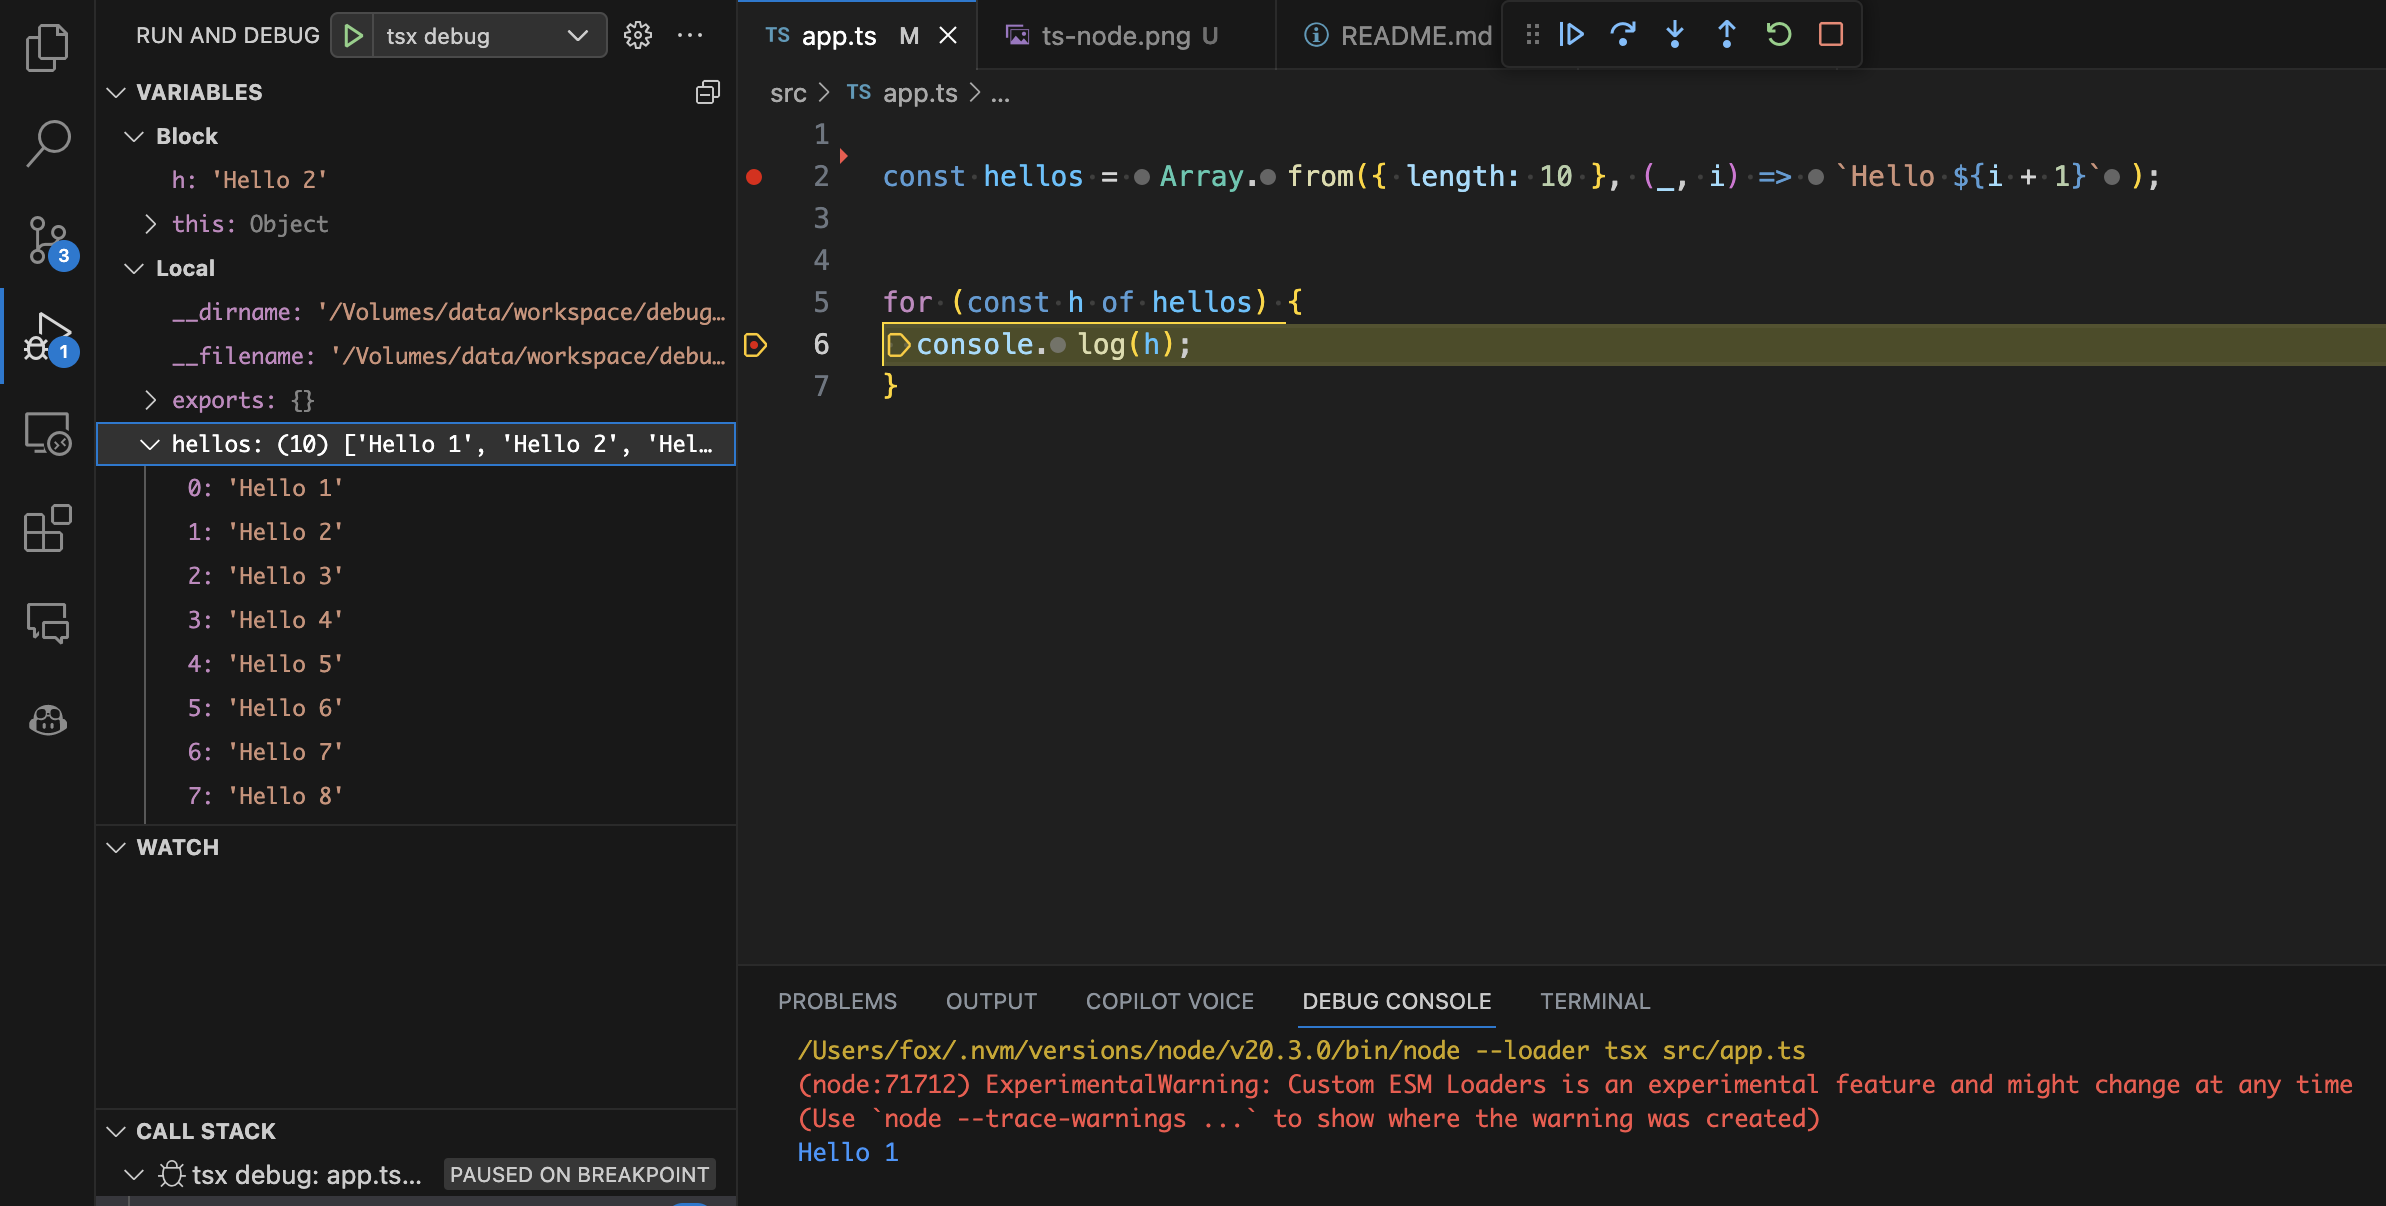
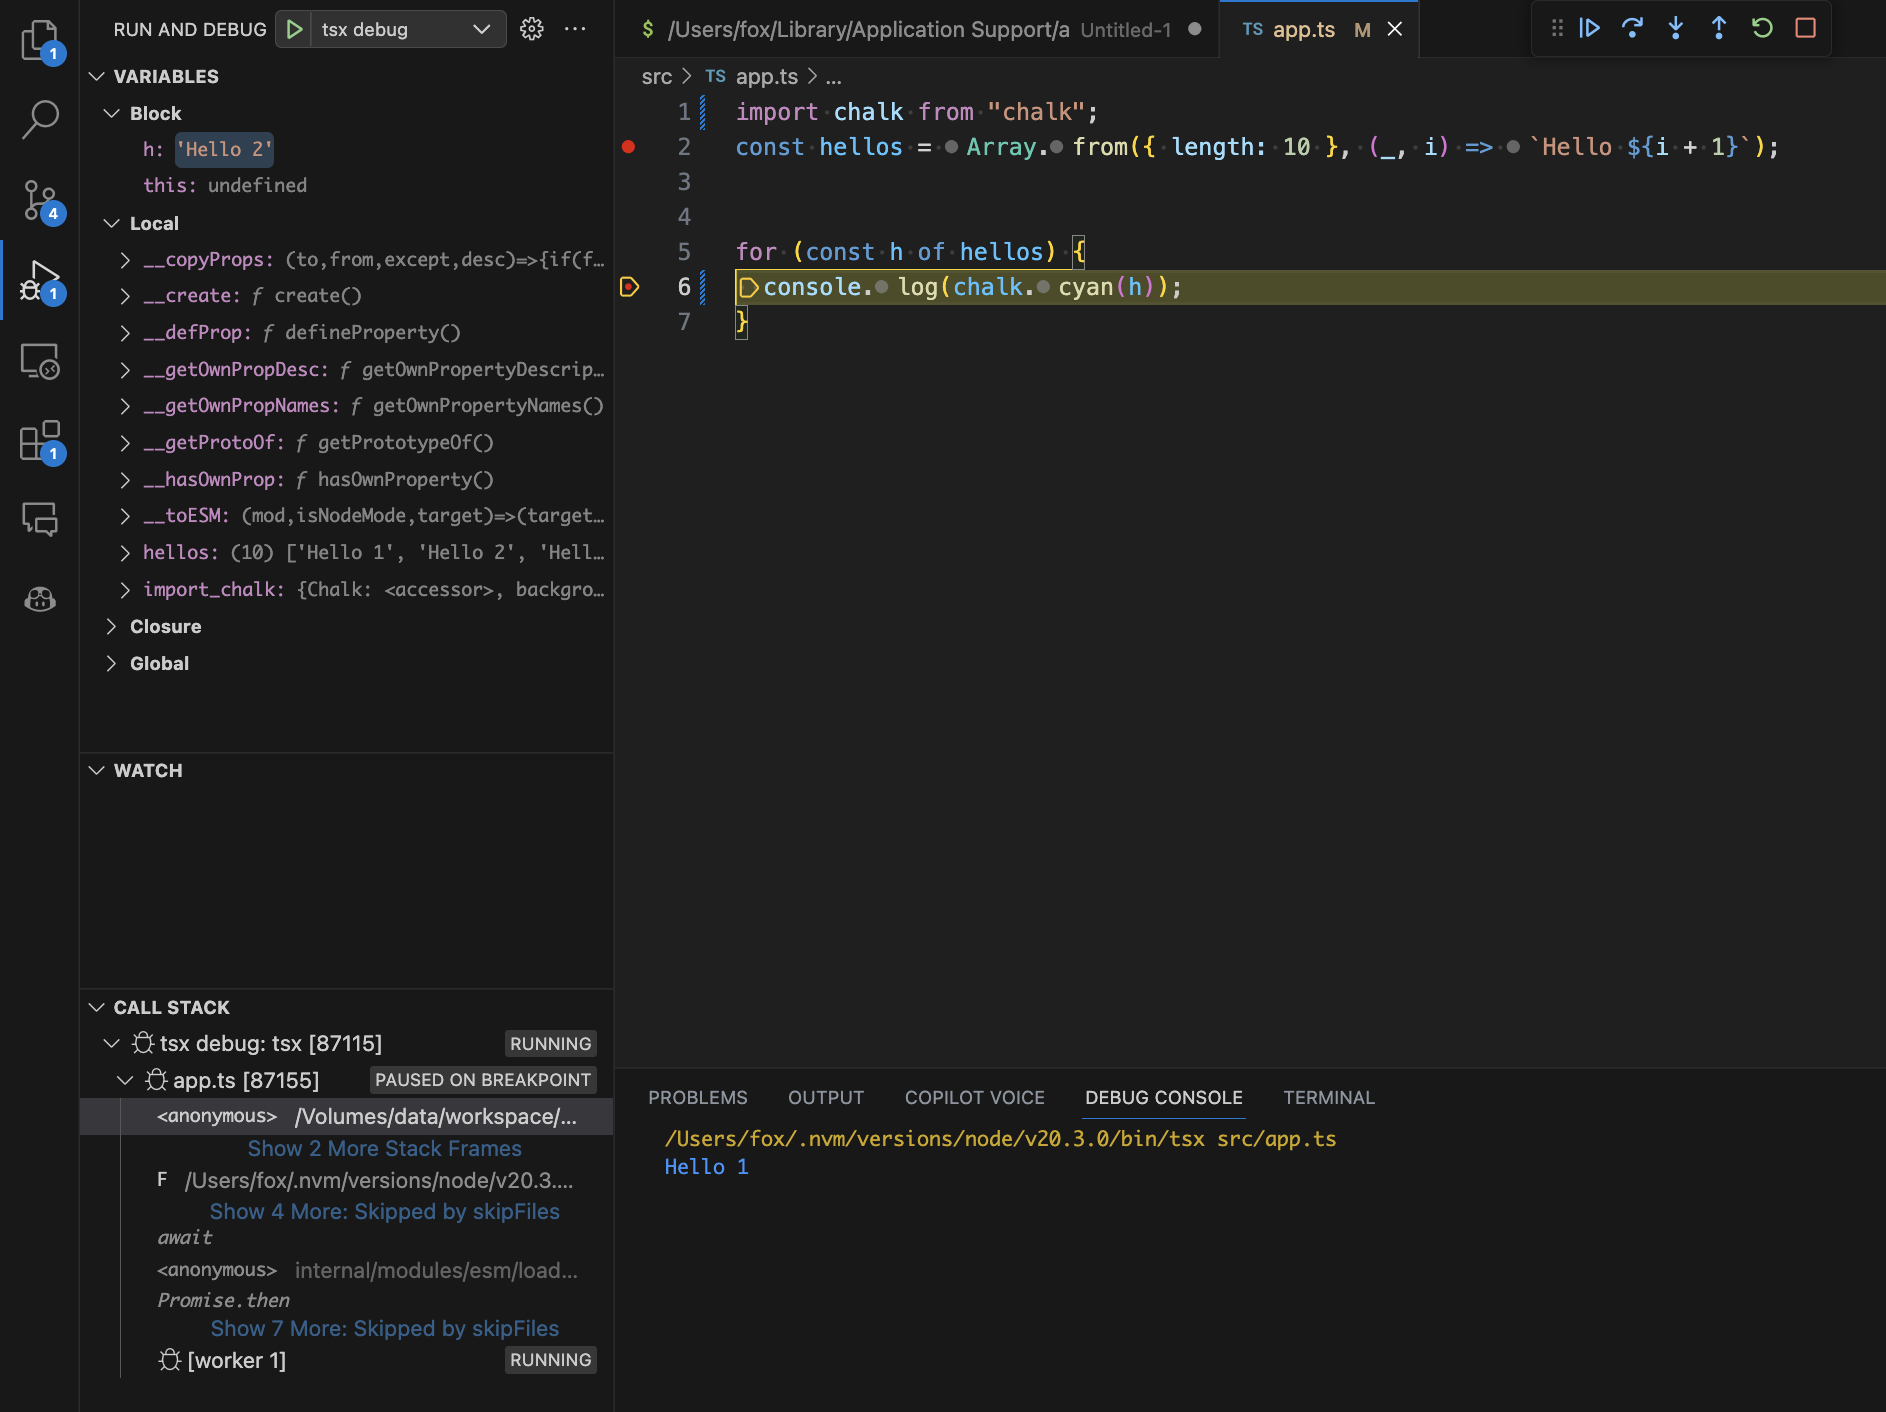
with module import debug

diff --git a/src/app.ts b/src/app.ts
@@ -1,7 +1,7 @@
-
+import chalk from "chalk";
 const hellos = Array.from({ length: 10 }, (_, i) => `Hello ${i + 1}`);
 
 
 for (const h of hellos) {
-  console.log(h);
+  console.log(chalk.cyan(h));
 }

diff --git a/README.md b/README.md
@@ -1,59 +1,60 @@
 # In 2023, New Century TypeScript Debugging Methods
 
+  ## `tsx` example
+  - `npm i -g tsx`
+  - add `.vscode/launch.json`
+  ```json
+  {
+    "version": "0.2.0",
+    "configurations": [
+      {
+        "name": "tsx debug",
+        "type": "node",
+        "request": "launch",
+        "args": [
+          "${relativeFile}"
+        ],
+        "runtimeExecutable": "tsx",
+        "cwd": "${workspaceRoot}",
+        "internalConsoleOptions": "openOnSessionStart"
+      }
+    ]
+  }
+  ```
+  ![tsx example](img/tsx.png)
 
-## `tsx` example
-- `npm i tsx`
-- add `.vscode/launch.json`
-```json
-{
-  "version": "0.2.0",
-  "configurations": [
-    {
-      "name": "tsx debug",
-      "type": "node",
-      "request": "launch",
-      "args": [
-        "${relativeFile}"
-      ],
-      "runtimeArgs": [
-        "--loader",
-        "tsx"
-      ],
-      "cwd": "${workspaceRoot}",
-      "internalConsoleOptions": "openOnSessionStart"
-    }
-  ]
-}
-```
-![tsx example](img/tsx.png)
 
-## `ts-node` example
+<details>
+  <summary markdown="span">`ts-node` example</summary>
 
-- `npm i ts-node`
-- add `.vscode/launch.json`
+  ## `ts-node` example
 
-```json
-{
-  "version": "0.2.0",
-  "configurations": [
-    {
-      "name": "ts-node debug",
-      "type": "node",
-      "request": "launch",
-      "args": [
-        "${relativeFile}"
-      ],
-      "runtimeArgs": [
-        "-r",
-        "ts-node/register"
-      ],
-      "cwd": "${workspaceRoot}",
-      "internalConsoleOptions": "openOnSessionStart"
-    }
-  ]
-}
-```
-![ts-node example](img/ts-node.png)
+  - `npm i ts-node`
+  - add `.vscode/launch.json`
 
+  ```json
+  {
+    "version": "0.2.0",
+    "configurations": [
+      {
+        "name": "ts-node debug",
+        "type": "node",
+        "request": "launch",
+        "args": [
+          "${relativeFile}"
+        ],
+        "runtimeArgs": [
+          "-r",
+          "ts-node/register"
+        ],
+        "cwd": "${workspaceRoot}",
+        "internalConsoleOptions": "openOnSessionStart"
+      }
+    ]
+  }
+  ```
+  ![ts-node example](img/ts-node.png)
+
+</details>
 
 # enjoy typescript coding :)
